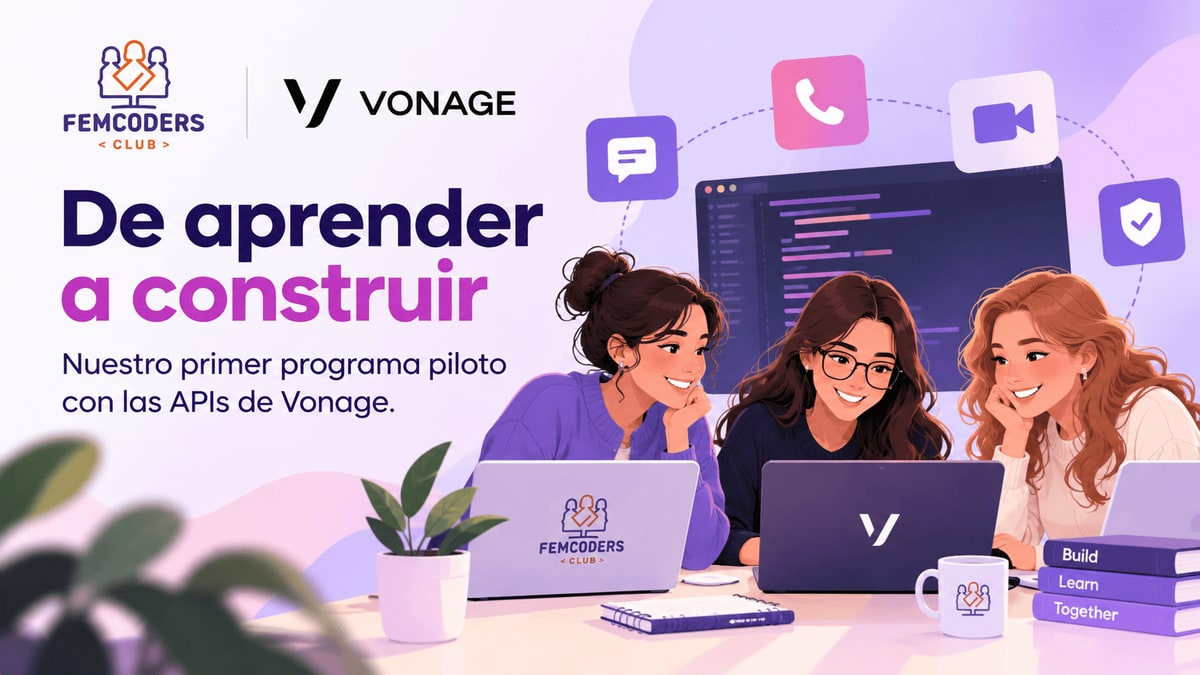
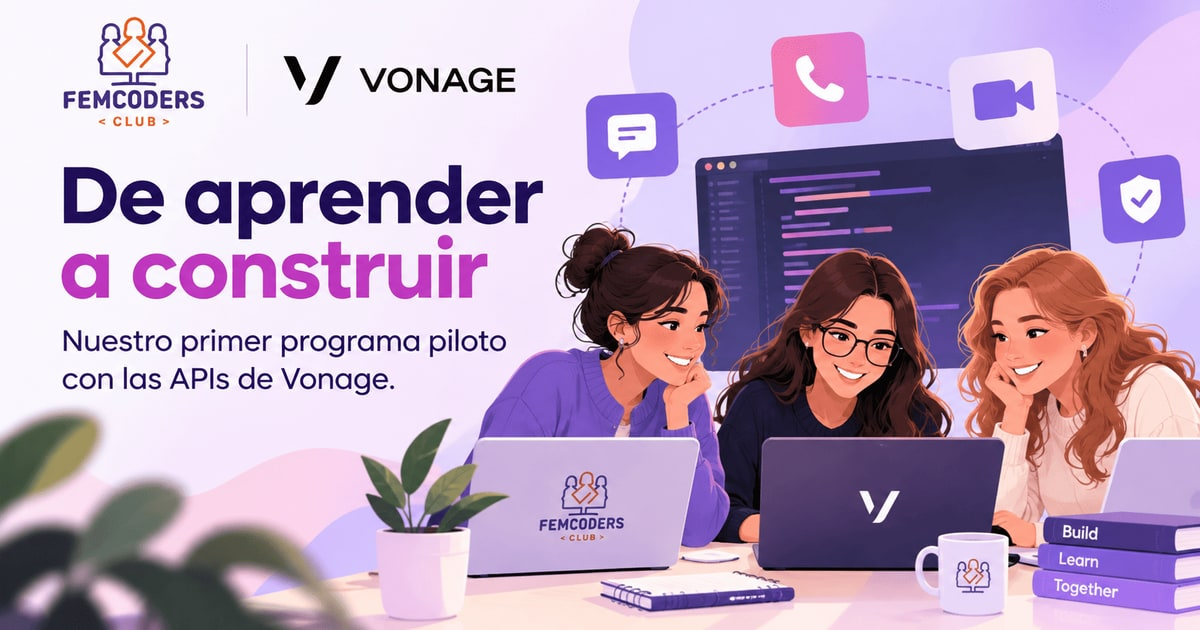
fix(blog): SEO y GEO del post del piloto de Vonage
Título corto para buscadores, descripción con el plazo y el año, portada
a 1200x630 (lo que declara el prerender), alt que dice que es IA y
preguntas frecuentes visibles y como FAQPage. Entrada en el CHANGELOG.

diff --git a/src/features/Blog/posts/noticias/ProyectoPilotoApisVonage.tsx b/src/features/Blog/posts/noticias/ProyectoPilotoApisVonage.tsx
@@ -11,16 +11,49 @@ import { articleSchema } from "../../components/articleSchema";
   abierto; manda a registrarse o a entrar.
 */
 
+/*
+  Las preguntas frecuentes se pintan y se declaran como FAQPage desde la misma
+  lista, para que el texto visible y el de los datos estructurados no puedan
+  separarse. Cada respuesta se sostiene sola y solo dice lo que ya cuenta el
+  post: un buscador generativo puede citarla sin leer el resto.
+*/
+const PREGUNTAS = [
+  {
+    pregunta: "¿Qué es el programa piloto de FemCoders Club con las APIs de Vonage?",
+    respuesta:
+      "Es la primera edición de un programa en el que integrantes de FemCoders Club trabajan en pequeños equipos para desarrollar una aplicación real con las APIs de Vonage, con el acompañamiento de mentoras de la comunidad. Nace de la colaboración de FemCoders Club con el Vonage Community Partnership Program.",
+  },
+  {
+    pregunta: "¿Cuánto dura el programa piloto y cómo se organiza?",
+    respuesta:
+      "Dura unas seis semanas y es 100 % online, con flexibilidad para que cada equipo se organice según su disponibilidad. No es un curso tradicional: cada equipo explora ideas, toma decisiones y resuelve problemas mientras construye su aplicación.",
+  },
+  {
+    pregunta: "¿Hace falta experiencia para participar en el programa piloto con Vonage?",
+    respuesta:
+      "No hace falta tener años de experiencia programando. El programa está pensado tanto para quienes dan sus primeros pasos como para quienes quieren seguir creciendo, probar nuevas herramientas o ganar experiencia colaborando en un proyecto.",
+  },
+  {
+    pregunta: "¿Qué incluye el programa piloto con las APIs de Vonage?",
+    respuesta:
+      "El acompañamiento de mentoras de FemCoders Club y créditos para utilizar las APIs de Vonage durante el desarrollo del proyecto.",
+  },
+  {
+    pregunta: "¿Cómo me apunto al programa piloto y hasta cuándo?",
+    respuesta:
+      "Las inscripciones están abiertas hasta el domingo 18 de octubre de 2026. Hay que registrarse en FemCoders Club, o entrar con tu cuenta si ya la tienes, y responder las tres preguntas que aparecen en la página de bienvenida.",
+  },
+];
+
 const ProyectoPilotoApisVonage: React.FC = () => (
   <>
       <Helmet>
         <title>
-          De aprender a construir: nuestro primer programa piloto con las APIs
-          de Vonage | FemCoders Club
+          Primer programa piloto con las APIs de Vonage | FemCoders Club
         </title>
         <meta
           name="description"
-          content="Abrimos nuestro primer programa piloto con las APIs de Vonage: seis semanas en pequeños equipos, online y con mentoras, para construir una aplicación real. Inscripciones hasta el 18 de octubre."
+          content="Seis semanas en pequeños equipos, 100 % online y con mentoras, para crear una aplicación con las APIs de Vonage. Inscripciones hasta el 18 de octubre de 2026."
         />
         <meta
           name="keywords"
@@ -34,11 +67,11 @@ const ProyectoPilotoApisVonage: React.FC = () => (
         <meta property="og:type" content="article" />
         <meta
           property="og:title"
-          content="De aprender a construir: nuestro primer programa piloto con las APIs de Vonage"
+          content="Primer programa piloto con las APIs de Vonage"
         />
         <meta
           property="og:description"
-          content="Abrimos nuestro primer programa piloto con las APIs de Vonage: seis semanas en pequeños equipos, online y con mentoras, para construir una aplicación real. Inscripciones hasta el 18 de octubre."
+          content="Seis semanas en pequeños equipos, 100 % online y con mentoras, para crear una aplicación con las APIs de Vonage. Inscripciones hasta el 18 de octubre de 2026."
         />
         <meta
           property="og:url"
@@ -50,18 +83,18 @@ const ProyectoPilotoApisVonage: React.FC = () => (
         />
         <meta
           property="og:image:alt"
-          content="De aprender a construir: nuestro primer programa piloto con las APIs de Vonage. Tres chicas sonríen frente a sus portátiles, con los logotipos de FemCoders Club y Vonage, iconos de mensajes, llamada, vídeo y verificación, y unos libros con las palabras Build, Learn y Together"
+          content="Ilustración generada con IA: tres chicas sonríen frente a sus portátiles, con los logotipos de FemCoders Club y Vonage, iconos de mensajes, llamada, vídeo y verificación, y libros con las palabras Build, Learn y Together"
         />
         <meta property="og:site_name" content="FemCoders Club" />
 
         <meta name="twitter:card" content="summary_large_image" />
         <meta
           name="twitter:title"
-          content="De aprender a construir: nuestro primer programa piloto con las APIs de Vonage"
+          content="Primer programa piloto con las APIs de Vonage"
         />
         <meta
           name="twitter:description"
-          content="Seis semanas en pequeños equipos, online y con mentoras, para construir una aplicación real con las APIs de Vonage. Inscripciones hasta el 18 de octubre."
+          content="Seis semanas en pequeños equipos, 100 % online y con mentoras, para crear una aplicación con las APIs de Vonage. Inscripciones hasta el 18 de octubre de 2026."
         />
         <meta
           name="twitter:image"
@@ -92,7 +125,7 @@ const ProyectoPilotoApisVonage: React.FC = () => (
               headline:
                 "De aprender a construir: nuestro primer programa piloto con las APIs de Vonage",
               description:
-                "Abrimos nuestro primer programa piloto con las APIs de Vonage: seis semanas en pequeños equipos, online y con mentoras, para construir una aplicación real. Inscripciones hasta el 18 de octubre.",
+                "Seis semanas en pequeños equipos, 100 % online y con mentoras, para crear una aplicación con las APIs de Vonage. Inscripciones hasta el 18 de octubre de 2026.",
               image: "/assets/noticias/proyecto-piloto-apis-vonage.jpg",
               datePublished: "2026-10-11T10:00:00Z",
               about: {
@@ -115,6 +148,17 @@ const ProyectoPilotoApisVonage: React.FC = () => (
               ],
             })
           )}
+        </script>
+        <script type="application/ld+json">
+          {JSON.stringify({
+            "@context": "https://schema.org",
+            "@type": "FAQPage",
+            mainEntity: PREGUNTAS.map(({ pregunta, respuesta }) => ({
+              "@type": "Question",
+              name: pregunta,
+              acceptedAnswer: { "@type": "Answer", text: respuesta },
+            })),
+          })}
         </script>
       </Helmet>
 
@@ -211,6 +255,15 @@ const ProyectoPilotoApisVonage: React.FC = () => (
           proceso. Más adelante podremos mostrar los proyectos terminados y dar
           voz a las participantes que quieran contar su experiencia.
         </p>
+      </SeccionPost>
+
+      <SeccionPost titulo="Preguntas frecuentes">
+        {PREGUNTAS.map(({ pregunta, respuesta }) => (
+          <React.Fragment key={pregunta}>
+            <h3>{pregunta}</h3>
+            <p>{respuesta}</p>
+          </React.Fragment>
+        ))}
       </SeccionPost>
 
       <SeccionPost titulo="¿Te apetece participar?">

diff --git a/src/features/Home/page/HomePage.tsx b/src/features/Home/page/HomePage.tsx
@@ -373,7 +373,7 @@ const HomePage: React.FC = () => {
       description:
         "Durante unas seis semanas, pequeños equipos de la comunidad construirán una aplicación real con las APIs de Vonage: online, con flexibilidad y con el acompañamiento de mentoras de FemCoders Club. No hace falta tener años de experiencia. Inscripciones abiertas hasta el 18 de octubre.",
       image: "/assets/noticias/proyecto-piloto-apis-vonage.jpg",
-      imageAlt: "De aprender a construir: nuestro primer programa piloto con las APIs de Vonage. Tres chicas sonríen frente a sus portátiles, con los logotipos de FemCoders Club y Vonage, iconos de mensajes, llamada, vídeo y verificación, y unos libros con las palabras Build, Learn y Together",
+      imageAlt: "Ilustración generada con IA: tres chicas sonríen frente a sus portátiles, con los logotipos de FemCoders Club y Vonage, iconos de mensajes, llamada, vídeo y verificación, y libros con las palabras Build, Learn y Together",
       aiGenerated: true,
       date: "11 Octubre 2026",
       category: "Noticias",

diff --git a/CHANGELOG.md b/CHANGELOG.md
@@ -5,6 +5,15 @@ Formato basado en [Keep a Changelog](https://keepachangelog.com/es-ES/1.1.0/).
 
 ## [No publicado]
 
+### Blog: programa piloto con las APIs de Vonage
+
+#### Añadido
+- **Noticia `/noticias/proyecto-piloto-apis-vonage`**, también en la portada.
+  Inscripciones hasta el 18 de octubre de 2026 desde `/welcome`; el post manda
+  a registrarse o entrar y no muestra el código de Vonage. Portada generada con
+  IA y marcada como tal, en JPEG 1200×630. Preguntas frecuentes visibles y
+  declaradas como FAQPage desde la misma lista.
+
 ### Panel de admin: correos inactivos
 
 #### Añadido
